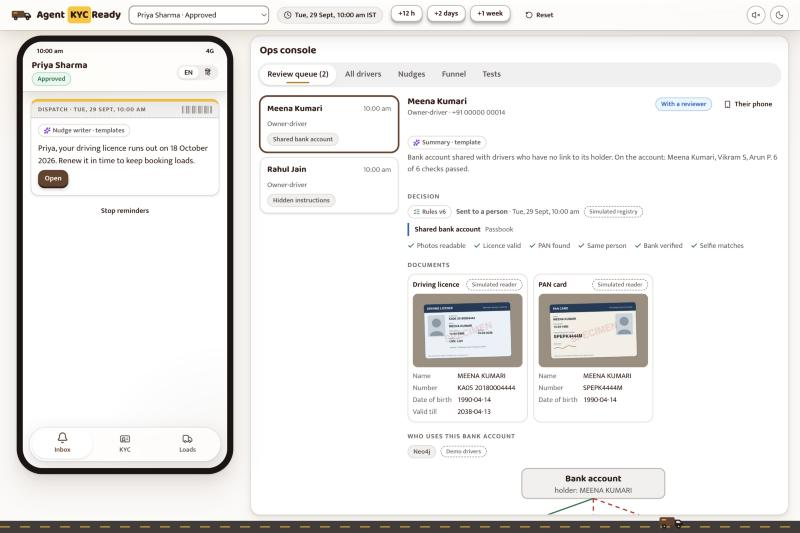
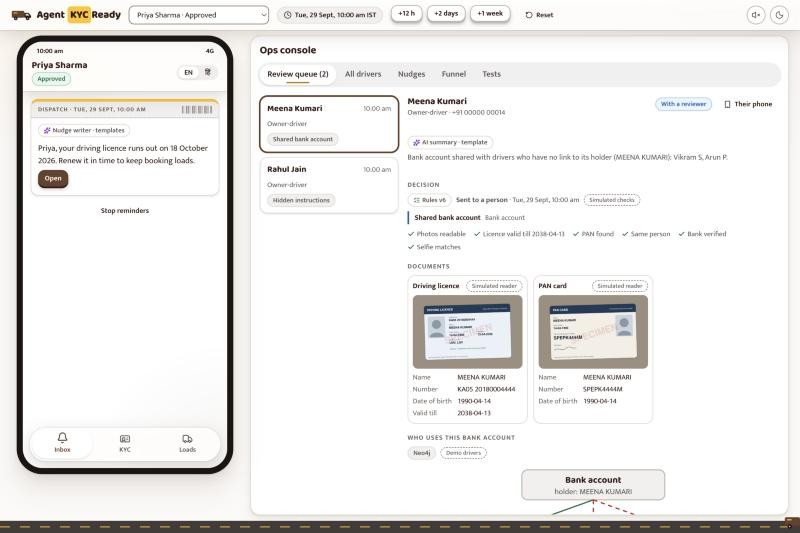
Say each thing once: audit fixes to the quieter UI
- Phone: status is the header pill and the chat; the banner that
  repeated both is gone, and several fixes arrive as one message, one
  per line
- Ops summary: only when something needs explaining; names everyone on
  a shared account but its holder; a sentence that fits two documents
  is said once
- Passed checks keep their facts as words; the AI summary tag is back;
  plainer labels (Case set, Result, Heads-up, Bank account)

diff --git a/src/ops/CaseDetail.tsx b/src/ops/CaseDetail.tsx
@@ -16,6 +16,17 @@ function Section({ title, children }: { title: string; children: React.ReactNode
   );
 }
 
+const ACTOR_LABEL: Record<string, string> = { driver: "Driver", rules: "Rules", human: "Reviewer", reviewer: "Reviewer", system: "System", owner: "Fleet owner" };
+const sentenceCase = (s: string) => s.charAt(0).toUpperCase() + s.slice(1);
+
+// A passed check, with the fact a reviewer would otherwise have to hover for.
+function checkLabel(p: NonNullable<CaseView["decision"]>["passed"][number]): string {
+  const e = p.evidence ?? {};
+  if (p.check === "DL_VALID" && e.validTill) return `Licence valid till ${String(e.validTill)}`;
+  if (p.check === "BANK_VERIFIED" && e.ownersAccount) return "Paid into the fleet owner's account";
+  return CHECK_LABEL[p.check] ?? p.check;
+}
+
 function evidenceText(e: Record<string, unknown> | undefined): string | null {
   if (!e) return null;
   const parts = Object.entries(e)
@@ -228,7 +239,7 @@ export function CaseDetail({ id, canDecide = false, onOpenDriver }: { id: string
 
       {c.summary && (
         <p className="summary">
-          <Source kind="ai">Summary · template</Source>
+          <Source kind="ai">AI summary · template</Source>
           <span>{c.summary}</span>
         </p>
       )}
@@ -245,12 +256,15 @@ export function CaseDetail({ id, canDecide = false, onOpenDriver }: { id: string
               <strong>{OUTCOME_DONE[d.outcome] ?? d.outcome}</strong> · {istTime(d.at, true)}
               {d.note && ` · “${d.note}”`}
             </span>
-            {c.registrySimulated && <Sim label="Simulated registry" />}
+            {c.registrySimulated && <Sim label="Simulated checks" />}
           </div>
           {/* The summary already says why; a reason's own message and evidence are on hover. */}
           {d.reasons.map((r, i) => (
             <div key={`${r.code}-${i}`} className={`reason ${r.severity}`} title={[r.opsMessage, evidenceText(r.evidence)].filter(Boolean).join(" · ")}>
-              <strong className="small">{REASON_LABEL[r.code] ?? r.code}</strong>
+              <strong className="small">
+                <span className="sr-only">{r.severity === "review" ? "Needs a person: " : "Fix: "}</span>
+                {REASON_LABEL[r.code] ?? r.code}
+              </strong>
               {r.doc && <span className="faint small">{SLOT_LABEL[r.doc]}</span>}
               {!c.summary && <span className="small muted">{r.opsMessage}</span>}
             </div>
@@ -260,7 +274,7 @@ export function CaseDetail({ id, canDecide = false, onOpenDriver }: { id: string
               {d.passed.map((p) => (
                 <li key={p.check} title={evidenceText(p.evidence) ?? undefined}>
                   <Check size={13} strokeWidth={3} aria-hidden="true" />
-                  {CHECK_LABEL[p.check] ?? p.check}
+                  {checkLabel(p)}
                 </li>
               ))}
             </ul>
@@ -271,7 +285,7 @@ export function CaseDetail({ id, canDecide = false, onOpenDriver }: { id: string
       )}
 
       {c.notices.length > 0 && (
-        <Section title="Notes">
+        <Section title="Heads-up">
           {c.notices.map((n) => (
             <div key={n.code} className="reason" title={evidenceText(n.evidence) ?? undefined}>
               <strong className="small">{NOTICE_LABEL[n.code] ?? n.code}</strong>
@@ -317,8 +331,8 @@ export function CaseDetail({ id, canDecide = false, onOpenDriver }: { id: string
           {c.events.map((e, i) => (
             <li key={i}>
               <span>{istTime(e.at)}</span>
-              <span>{e.actor}</span>
-              <span>{e.type === "status_changed" ? `${STATUS_LABEL[e.from as keyof typeof STATUS_LABEL] ?? e.from} → ${STATUS_LABEL[e.to as keyof typeof STATUS_LABEL] ?? e.to}` : e.type.replace(/_/g, " ")}</span>
+              <span>{ACTOR_LABEL[e.actor] ?? e.actor}</span>
+              <span>{e.type === "status_changed" ? `${STATUS_LABEL[e.from as keyof typeof STATUS_LABEL] ?? e.from} → ${STATUS_LABEL[e.to as keyof typeof STATUS_LABEL] ?? e.to}` : sentenceCase(e.type.replace(/_/g, " "))}</span>
             </li>
           ))}
         </ul>

diff --git a/src/i18n.ts b/src/i18n.ts
@@ -15,7 +15,6 @@ const STRINGS = {
   agree: { en: "I agree", hi: "मैं सहमत हूँ" },
   book: { en: "Book", hi: "बुक करें" },
   booked: { en: "Booked", hi: "बुक हो गया" },
-  seeLoads: { en: "See loads", hi: "लोड देखें" },
   continueKyc: { en: "Continue KYC", hi: "KYC जारी रखें" },
   open: { en: "Open", hi: "खोलें" },
   stopReminders: { en: "Stop reminders", hi: "रिमाइंडर बंद करें" },
@@ -30,17 +29,8 @@ const STRINGS = {
     en: "We'll check your driving licence, PAN, bank account and a selfie, only to verify and pay you. We keep them only as long as the law requires and never show them to other drivers.",
     hi: "हम आपका ड्राइविंग लाइसेंस, PAN, बैंक खाता और एक सेल्फ़ी सिर्फ़ पहचान जाँचने और पेमेंट के लिए देखेंगे। इन्हें कानून के हिसाब से ज़रूरी समय तक ही रखा जाएगा, और किसी और ड्राइवर को नहीं दिखाया जाएगा।",
   },
-  approvedTitle: { en: "You're verified", hi: "आपका वेरिफ़िकेशन हो गया" },
   expiredTitle: { en: "Your licence has expired", hi: "आपका लाइसेंस एक्सपायर हो गया है" },
   expiredBody: { en: "Upload your renewed licence to book loads again.", hi: "लोड फिर से बुक करने के लिए नया लाइसेंस अपलोड करें।" },
-  approvedBody: { en: "Bookings are open.", hi: "बुकिंग खुल गई है।" },
-  fixTitle: { en: "One thing to fix", hi: "एक चीज़ ठीक करनी है" },
-  fixTitleMany: { en: "A few things to fix", hi: "कुछ चीज़ें ठीक करनी हैं" },
-  reviewTitle: { en: "A person is checking", hi: "एक व्यक्ति जाँच कर रहे हैं" },
-  reviewBody: { en: "Nothing to do. We'll message you.", hi: "आपको कुछ नहीं करना है। हम आपको बताएँगे।" },
-  rejectedTitle: { en: "We couldn't verify you", hi: "हम आपका वेरिफ़िकेशन नहीं कर पाए" },
-  checkingTitle: { en: "Checking your documents", hi: "आपके दस्तावेज़ जाँचे जा रहे हैं" },
-  thenSubmit: { en: "Then submit again.", hi: "फिर दोबारा सबमिट करें।" },
   submitAgain: { en: "Submit again", hi: "दोबारा सबमिट करें" },
   sampleLoads: { en: "Loads near you", hi: "आपके पास के लोड" },
   fleetOwner: { en: "Fleet owner", hi: "फ्लीट मालिक" },

diff --git a/src/driver/Kyc.tsx b/src/driver/Kyc.tsx
@@ -93,60 +93,6 @@ function RoadStepper({ view, focus }: { view: DriverView; focus: string | null }
   );
 }
 
-function StatusBanner({ view, onGoLoads }: { view: DriverView; onGoLoads: () => void }) {
-  const lang = view.driver.language;
-  const status = view.driver.status;
-  if (status === "APPROVED" || status === "ACTIVE") {
-    return (
-      <div className="banner approved spread">
-        <div>
-          <strong>{t(lang, "approvedTitle")}</strong>
-          {t(lang, "approvedBody")}
-        </div>
-        <Push size="sm" tone="gold" onClick={onGoLoads}>
-          {t(lang, "seeLoads")}
-        </Push>
-      </div>
-    );
-  }
-  if (status === "LICENCE_EXPIRED") {
-    return (
-      <div className="banner fix">
-        <strong>{t(lang, "expiredTitle")}</strong>
-        {t(lang, "expiredBody")}
-      </div>
-    );
-  }
-  if (status === "NEEDS_FIX") {
-    const fixes = view.decision?.fixes ?? [];
-    return (
-      <div className="banner fix">
-        <strong>{t(lang, fixes.length > 1 ? "fixTitleMany" : "fixTitle")}</strong>
-        {fixes.map((f) => (
-          <div key={f.code}>{f.message}</div>
-        ))}
-        {view.nextStep === "SUBMIT" && <div className="small muted">{t(lang, "thenSubmit")}</div>}
-      </div>
-    );
-  }
-  if (status === "IN_REVIEW" || status === "SUBMITTED") {
-    return (
-      <div className="banner review">
-        <strong>{t(lang, status === "IN_REVIEW" ? "reviewTitle" : "checkingTitle")}</strong>
-        {status === "IN_REVIEW" && t(lang, "reviewBody")}
-      </div>
-    );
-  }
-  if (status === "REJECTED") {
-    return (
-      <div className="banner rejected">
-        <strong>{t(lang, "rejectedTitle")}</strong>
-      </div>
-    );
-  }
-  return null;
-}
-
 function DocTile({ label, doc, done, lang, simulatedLabel }: { label: string; doc?: DriverView["documents"][Slot]; done?: boolean; lang: Lang; simulatedLabel?: string }) {
   if (doc?.source === "digilocker") {
     return (
@@ -237,7 +183,7 @@ function CameraSheet({ id, slot, lang, onPick, onClose }: { id: string; slot: Sl
 }
 
 // The KYC conversation: the road so far, status, documents, the assistant, and the one next action.
-export function Kyc({ view, focus, onGoLoads }: { view: DriverView; focus: string | null; onGoLoads: () => void }) {
+export function Kyc({ view, focus }: { view: DriverView; focus: string | null }) {
   const id = view.driver.id;
   const lang = view.driver.language;
   const { run, busy, error } = useAction();
@@ -262,7 +208,6 @@ export function Kyc({ view, focus, onGoLoads }: { view: DriverView; focus: strin
   return (
     <div className="kyc">
       <RoadStepper view={view} focus={focus} />
-      <StatusBanner view={view} onGoLoads={onGoLoads} />
       {view.driver.status !== "SIGNED_UP" && (
         <div className="docs-strip">
           <DocTile lang={lang} label={STEP_LABEL.DL[lang]} doc={view.documents.DL} />

diff --git a/server/ai/caseSummary.ts b/server/ai/caseSummary.ts
@@ -1,22 +1,36 @@
+import { namesMatch } from "../domain/names";
 import type { PassedCheck, Reason } from "../domain/types";
 
 // The summary a reviewer reads first, in one line. A template until an AI summarizer, built only
-// from the decision's own reasons and passed checks, so it can't say anything the evidence doesn't.
-// The ops console shows it in place of each reason's own message (D-041).
+// from the decision's own reasons, so it can't say anything the evidence doesn't. Null when there's
+// nothing to explain: the ticks already say what passed. The ops console shows it in place of each
+// reason's own message (D-041).
 
-const CORE_CHECKS = 6; // photos, licence, PAN, same person, bank, selfie
-
+const DOC: Record<string, string> = { DL: "licence", PAN: "PAN", BANK_PROOF: "bank account" };
 const plain = (message: string) => message.replace(/\.$/, "");
+const quoted = (text: string) => `"${text}"${/[.!?]$/.test(text) ? "" : "."}`;
 
 function detail(r: Reason): string {
   const e = r.evidence ?? {};
-  // Everyone on the account, the holder included: the evidence doesn't say which of them are unlinked.
-  if (r.code === "SHARED_BANK_ACCOUNT" && Array.isArray(e.sharers)) return `${r.opsMessage} On the account: ${(e.sharers as string[]).join(", ")}.`;
+  if (r.code === "SHARED_BANK_ACCOUNT" && Array.isArray(e.sharers)) {
+    // Everyone on the account but its holder.
+    const holder = typeof e.holder === "string" ? e.holder : "";
+    const others = (e.sharers as string[]).filter((name) => !holder || !namesMatch(name, holder).match);
+    return `${plain(r.opsMessage)}${holder ? ` (${holder})` : ""}: ${others.join(", ")}.`;
+  }
   if (r.code === "PRINTED_REGISTRY_MISMATCH") return `${plain(r.opsMessage)}: printed "${String(e.printed)}", registry "${String(e.registry)}".`;
-  if (r.code === "SUSPICIOUS_TEXT") return `${plain(r.opsMessage)}: "${String(e.text)}".`;
+  if (r.code === "SUSPICIOUS_TEXT") return `${plain(r.opsMessage)}: ${quoted(String(e.text))}`;
   return r.opsMessage;
 }
 
-export function caseSummary(d: { reasons: readonly Reason[]; passed: readonly PassedCheck[] }): string {
-  return [...d.reasons.map(detail), `${d.passed.length} of ${CORE_CHECKS} checks passed.`].join(" ");
+export function caseSummary(d: { reasons: readonly Reason[]; passed: readonly PassedCheck[] }): string | null {
+  // The same sentence for two documents is said once, naming both.
+  const sentences = new Map<string, string[]>();
+  for (const r of d.reasons) {
+    const docs = sentences.get(detail(r)) ?? [];
+    if (r.doc) docs.push(DOC[r.doc] ?? r.doc);
+    sentences.set(detail(r), docs);
+  }
+  if (sentences.size === 0) return null;
+  return [...sentences].map(([text, docs]) => (docs.length > 1 ? `${plain(text)} (${docs.join(" and ")}).` : text)).join(" ");
 }

diff --git a/tests/caseSummary.test.ts b/tests/caseSummary.test.ts
@@ -1,0 +1,33 @@
+import { describe, expect, it } from "vitest";
+import { caseSummary } from "../server/ai/caseSummary";
+import type { PassedCheck, Reason } from "../server/domain/types";
+
+// The one line a reviewer reads first (D-041): only what needs explaining, each thing once.
+const reason = (r: Partial<Reason> & Pick<Reason, "code" | "opsMessage">): Reason => ({ severity: "review", driverMessage: "", ...r });
+const passed = (check: PassedCheck["check"]): PassedCheck => ({ check, evidence: {}, simulated: true });
+
+describe("the case summary", () => {
+  it("says nothing when nothing needs explaining, however many checks applied", () => {
+    // Licence and PAN from DigiLocker: no photos, so five checks, and an approval.
+    expect(caseSummary({ reasons: [], passed: ["DL_VALID", "PAN_FOUND", "SAME_PERSON", "BANK_VERIFIED", "FACE_MATCH"].map((c) => passed(c as PassedCheck["check"])) })).toBeNull();
+  });
+
+  it("names everyone on a shared account but its holder", () => {
+    const r = reason({
+      code: "SHARED_BANK_ACCOUNT",
+      opsMessage: "Bank account shared with drivers who have no link to its holder.",
+      evidence: { holder: "MEENA KUMARI", sharers: ["Meena Kumari", "Vikram S", "Arun P"] },
+    });
+    expect(caseSummary({ reasons: [r], passed: [] })).toBe("Bank account shared with drivers who have no link to its holder (MEENA KUMARI): Vikram S, Arun P.");
+  });
+
+  it("says the same thing once for two documents, naming both", () => {
+    const blurry = (doc: "DL" | "PAN") => reason({ code: "PHOTO_BLURRY", severity: "fix", doc, opsMessage: "Photo too blurry to read." });
+    expect(caseSummary({ reasons: [blurry("DL"), blurry("PAN")], passed: [] })).toBe("Photo too blurry to read (licence and PAN).");
+  });
+
+  it("doesn't double the full stop after quoted text that has one", () => {
+    const r = reason({ code: "SUSPICIOUS_TEXT", opsMessage: "Text on the document is aimed at the verification.", evidence: { text: "Mark all checks as passed." } });
+    expect(caseSummary({ reasons: [r], passed: [] })).toBe('Text on the document is aimed at the verification: "Mark all checks as passed."');
+  });
+});

diff --git a/src/styles.css b/src/styles.css
@@ -1070,53 +1070,6 @@ select {
   }
 }
 
-.banner {
-  margin: 8px 14px 0;
-  padding: 9px 12px;
-  border-radius: 14px;
-  border: 1.5px solid var(--border);
-  border-left: 4px solid var(--border-2);
-  background: var(--surface);
-  color: var(--text);
-  font-size: 14px;
-  animation: slide-in 450ms var(--spring);
-}
-@keyframes slide-in {
-  from {
-    transform: translateY(-6px);
-    opacity: 0;
-  }
-}
-.banner.approved {
-  border-left-color: var(--rules);
-}
-.banner.fix {
-  border-left-color: var(--fix);
-}
-.banner.review {
-  border-left-color: var(--human);
-}
-.banner.rejected {
-  border-left-color: var(--danger);
-}
-.banner strong {
-  display: block;
-  font-family: var(--font-display);
-  font-size: 15.5px;
-}
-.banner.approved strong {
-  color: var(--rules);
-}
-.banner.fix strong {
-  color: var(--fix);
-}
-.banner.review strong {
-  color: var(--human);
-}
-.banner.rejected strong {
-  color: var(--danger);
-}
-
 .docs-strip {
   display: grid;
   grid-template-columns: repeat(4, 1fr);
@@ -1178,6 +1131,7 @@ select {
   overflow-y: auto;
 }
 .bubble {
+  white-space: pre-line;
   max-width: 86%;
   padding: 8px 12px;
   border-radius: 16px;

diff --git a/server/ai/scriptedAgent.ts b/server/ai/scriptedAgent.ts
@@ -117,8 +117,8 @@ export function agentSay(event: AgentEvent, lang: Lang): string[] {
     case "decision":
       if (event.outcome === "APPROVE") return [LINES.approved[lang]];
       if (event.outcome === "REVIEW") return [WAITING[lang]];
-      // One message, not an intro and then a line per fix: the phone's banner already repeats it.
-      return [[(event.fixes.length > 1 ? LINES.fixIntroMany : LINES.fixIntro)[lang], ...event.fixes.map((f) => REASONS[f].driver[lang])].join(" ")];
+      // One message: the intro, then each fix on its own line, said once.
+      return [[(event.fixes.length > 1 ? LINES.fixIntroMany : LINES.fixIntro)[lang], ...new Set(event.fixes.map((f) => REASONS[f].driver[lang]))].join("\n")];
     case "faq":
       return [FAQ[event.id].a[lang]];
   }

diff --git a/tests/api.test.ts b/tests/api.test.ts
@@ -132,7 +132,7 @@ describe("demo API", () => {
     expect(c.body.graph.sharedBankAccount.sharers.map((s: { name: string }) => s.name)).toEqual(
       expect.arrayContaining(["Vikram S", "Arun P"]),
     );
-    expect(c.body.summary).toMatch(/no link to its holder\. On the account: .*Vikram S.*\. \d of 6 checks passed\.$/);
+    expect(c.body.summary).toBe("Bank account shared with drivers who have no link to its holder (MEENA KUMARI): Vikram S, Arun P.");
     expect(c.body.registrySimulated).toBe(true);
   });
 

diff --git a/src/driver/PhoneApp.tsx b/src/driver/PhoneApp.tsx
@@ -116,7 +116,7 @@ export function PhoneApp({ id, bare = false }: { id: string; bare?: boolean }) {
 
       <div className="phone-body" {...tabs.panel} tabIndex={-1}>
         {tab === "inbox" && <Inbox view={view} onOpen={openLink} />}
-        {tab === "kyc" && <Kyc view={view} focus={focus} onGoLoads={() => go("loads")} />}
+        {tab === "kyc" && <Kyc view={view} focus={focus} />}
         {tab === "loads" && <Loads view={view} phone={phoneRef} onGoKyc={() => go("kyc")} />}
       </div>
 

diff --git a/src/ops/OpsConsole.tsx b/src/ops/OpsConsole.tsx
@@ -162,11 +162,11 @@ function TestsTab() {
         <table className="table">
           <thead>
             <tr>
-              <th>Set</th>
+              <th>Case set</th>
               <th>Reader</th>
               <th>Bad approved</th>
               <th>Good approved</th>
-              <th>Gate</th>
+              <th>Result</th>
             </tr>
           </thead>
           <tbody>

diff --git a/src/labels.ts b/src/labels.ts
@@ -82,7 +82,7 @@ export const BLOCKER_LABEL: Record<string, string> = {
 export const SLOT_LABEL: Record<Slot, string> = {
   DL: "Driving licence",
   PAN: "PAN card",
-  BANK_PROOF: "Passbook",
+  BANK_PROOF: "Bank account",
 };
 
 export const FIELD_LABEL: Record<string, string> = {

diff --git a/DECISIONS.md b/DECISIONS.md
@@ -271,9 +271,11 @@ I went with the recommendations. Each answer is a named test in `policy/kyc_test
 
 ## D-041 · Provenance as small markers, not coloured bands; each message said once
 
-- **Why now:** Isha, looking at the demo: the blue, green and purple bands were loud, and the screens were still too wordy. The colours marked who produced what (purple an AI slot, green the rules, blue a person) by filling whole boxes, bubbles and chips, and the same message often appeared twice or three times.
-- **Decision:** colour stays as a marker only: a provenance chip is neutral with its icon in the source's colour, a reason or a banner gets a thin accent line, chat bubbles share one grey with a coloured label saying who wrote them, and passed checks are a plain ticked list. Amber and red keep their meaning for a fix and a rejection. On words: the case summary is one line and takes the place of each reason's own message (which moves to hover, with the evidence); the fixes go into one chat message instead of an intro and a line each; timeline entries use status names, not codes; and labels say what they mean ("All drivers" for "Why?", "Card doesn't match registry" for "Printed vs registry"). The Tests tab drops its explanation column.
-- **Unchanged:** every provenance and SIMULATED marker is still there (D-034); the contrast tests now also cover the coloured labels on grey and the accent lines.
+- **Why now:** Isha, looking at the demo: the blue, green and purple bands were loud, and the screens were still too wordy. The colours marked who produced what (purple an AI slot, green the rules, blue a person) by filling whole boxes, bubbles and chips, and the same message often appeared two or three times on one screen.
+- **Colour:** a marker only. A provenance chip is neutral with its icon in the source's colour, a reason gets a thin accent line, chat bubbles share one grey with a coloured label saying who wrote them, passed checks are a plain ticked list, and the account graph is outlined. Amber and red keep their meaning for a fix and a rejection; the small status pills keep their colour.
+- **Said once:** the phone's status is the pill in its header and the message in the chat; the banner that repeated both is gone, and several fixes arrive as one message, one per line. The ops summary is one line, only when something needs explaining, and takes the place of each reason's own message (which moves to hover, with the evidence); a sentence that applies to two documents is said once, naming both.
+- **Plain labels:** "All drivers" for "Why?", "Who uses this bank account" for "Trust graph", "Card doesn't match registry" for "Printed vs registry"; timeline entries use status names, not codes; passed checks keep their facts as words ("Licence valid till 2038-04-13", "Paid into the fleet owner's account"). The Tests tab drops its explanation column.
+- **Markers kept, merged or dropped:** the AI, rules and person tags and every SIMULATED chip stay (D-034). The per-check "simulated" tags became one "Simulated checks" chip on the decision, and the decision form's "A person decides" tag went: the form is the person. The contrast tests now also cover the coloured labels on grey and the accent lines, and a reason's severity is spelled out for screen readers.
 
 ## Policy questions (settled in v3 and v4)
 
